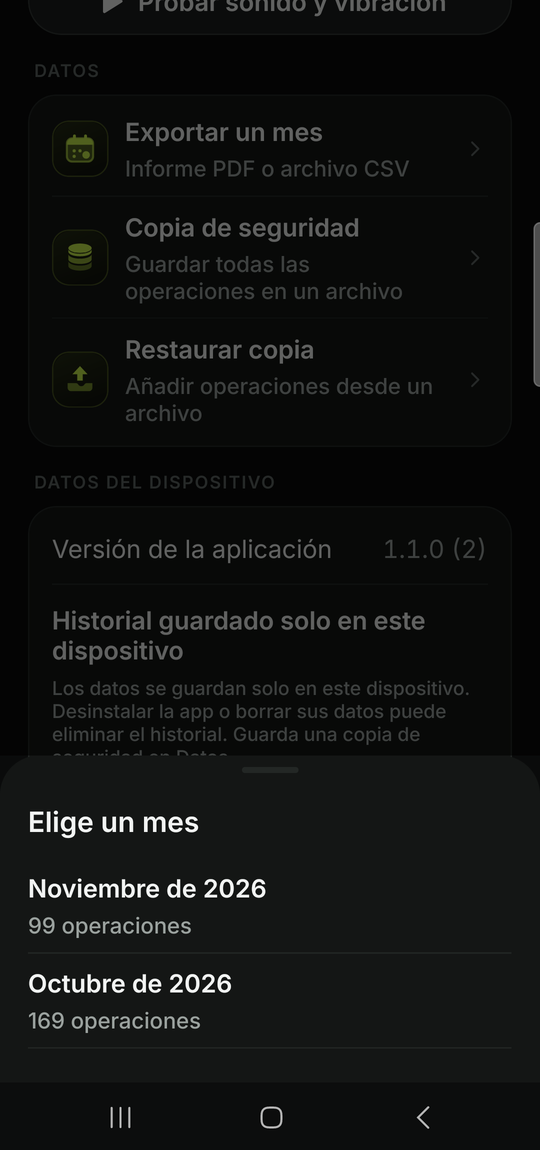
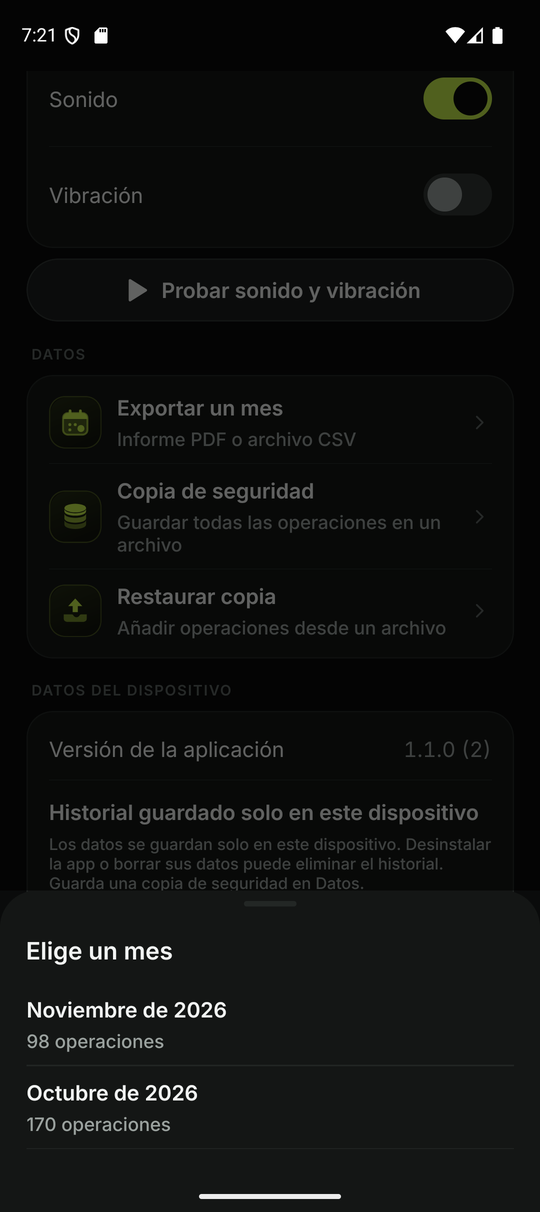
docs: retake all README screenshots from the emulator
Full-frame light and dark screenshots of Inicio, Resumen, Historial, calendar,
Datos and the export month picker with synthetic demo data; captions now say
emulator.

diff --git a/README.uk.md b/README.uk.md
@@ -25,7 +25,7 @@
 
 ## Як виглядає застосунок
 
-Реальні скриншоти з Android-телефона (release-збірка 1.1.0). Дані демонстраційні, інтерфейс іспанською; особисті записи не використовувалися.
+Реальні скриншоти з Android-емулятора (збірка 1.1.0). Дані демонстраційні, інтерфейс іспанською; особисті записи не використовувалися.
 
 | Екран                                                                                        | Світла тема                                                                                                              | Темна тема                                                                                                            |
 | -------------------------------------------------------------------------------------------- | ------------------------------------------------------------------------------------------------------------------------ | --------------------------------------------------------------------------------------------------------------------- |

diff --git a/README.es.md b/README.es.md
@@ -25,7 +25,7 @@ Las plataformas son etiquetas seleccionadas manualmente. CashDriver no se conect
 
 ## Capturas de pantalla
 
-Capturas reales de un teléfono Android (versión release 1.1.0) con datos sintéticos de demostración y la interfaz en español. No se utilizaron operaciones personales.
+Capturas reales de un emulador Android (versión 1.1.0) con datos sintéticos de demostración y la interfaz en español. No se utilizaron operaciones personales.
 
 | Pantalla                                                                                                       | Tema claro                                                                                                                         | Tema oscuro                                                                                                                        |
 | -------------------------------------------------------------------------------------------------------------- | ---------------------------------------------------------------------------------------------------------------------------------- | ---------------------------------------------------------------------------------------------------------------------------------- |

diff --git a/README.md b/README.md
@@ -25,7 +25,7 @@ Platforms are manually selected labels. CashDriver does not connect to their acc
 
 ## Screenshots
 
-Real screenshots from an Android phone (release build 1.1.0) using synthetic demo data and the Spanish interface. No personal payment records were used.
+Real screenshots from an Android emulator (build 1.1.0) using synthetic demo data and the Spanish interface. No personal payment records were used.
 
 | Screen                                                                                          | Light theme                                                                                                                | Dark theme                                                                                                               |
 | ----------------------------------------------------------------------------------------------- | -------------------------------------------------------------------------------------------------------------------------- | ------------------------------------------------------------------------------------------------------------------------ |
